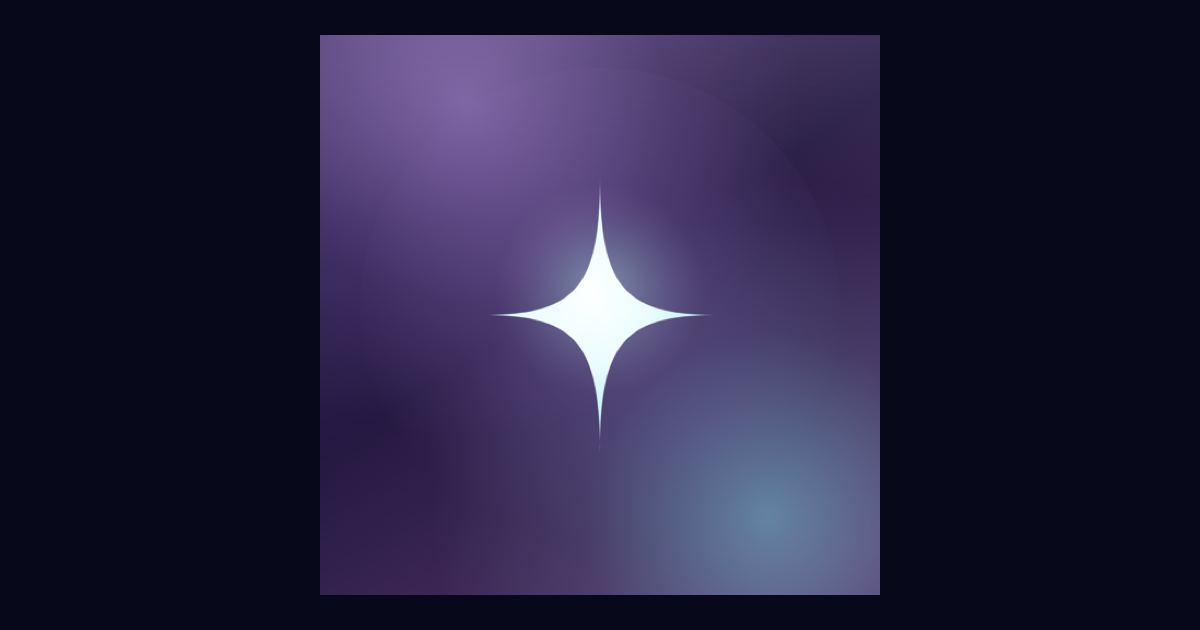
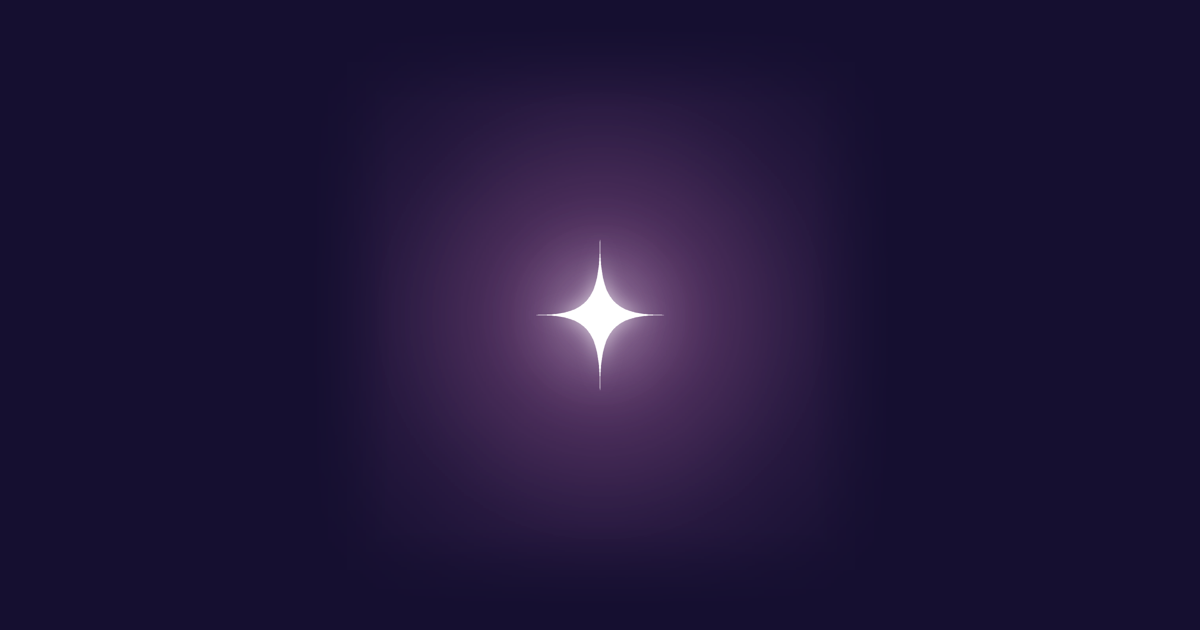
Rediseño con la paleta real del splash (violeta/indigo)

diff --git a/index.html b/index.html
@@ -5,7 +5,7 @@
 <meta name="viewport" content="width=device-width, initial-scale=1, viewport-fit=cover" />
 <title>OwnAI · Descarga para Android</title>
 <meta name="description" content="Instala OwnAI en tu Android. Convierte tus objetivos en acciones diarias con hábitos, rutinas y un coach con IA." />
-<meta name="theme-color" content="#04060F" />
+<meta name="theme-color" content="#150F30" />
 <link rel="icon" href="assets/favicon.png" />
 <link rel="apple-touch-icon" href="assets/icon.png" />
 
@@ -24,22 +24,26 @@
 <link href="https://fonts.googleapis.com/css2?family=Geist:wght@400;500;600;700&display=swap" rel="stylesheet" />
 
 <style>
+  /* Paleta muestreada pixel a pixel de assets/splash.png (la portada real de la app)
+     más los spark* de constants/colors.ts. */
   :root {
-    --bg: #04060F;
-    --ambient-navy: #08152A;
-    --ambient-deep: #060A18;
-    --primary: #7EE8F2;
-    --primary-end: #6EE5DE;
-    --accent-cyan: #B0F2FF;
-    --spark-violet: #C99CFF;
-    --spark-blue: #66EBFF;
+    --bg: #150F30;
+    --bg-deep: #100B26;
+    --glow-1: #7B5A85;
+    --glow-2: #5C3C69;
+    --glow-3: #482C58;
+    --glow-4: #2C1C43;
+
+    --violet: #C99CFF;
+    --pink: #E0AAFF;
+    --ice: #B0F2FF;
+    --cyan: #7EE8F2;
+
     --text: rgba(255, 255, 255, 0.97);
-    --text-2: rgba(255, 255, 255, 0.60);
-    --text-3: rgba(255, 255, 255, 0.45);
-    --glass: rgba(10, 16, 22, 0.42);
-    --glass-high: rgba(5, 9, 13, 0.66);
-    --border: rgba(255, 255, 255, 0.09);
-    --border-strong: rgba(255, 255, 255, 0.16);
+    --text-2: rgba(255, 255, 255, 0.64);
+    --text-3: rgba(255, 255, 255, 0.44);
+    --glass: rgba(38, 26, 76, 0.42);
+    --border: rgba(201, 156, 255, 0.16);
   }
 
   * { box-sizing: border-box; }
@@ -54,43 +58,36 @@
     overflow-x: hidden;
   }
 
-  /* ---- Fondo ambiental (réplica web del ambient glow de la app) ---- */
+  /* ---- Portada: réplica del degradado radial del splash ---- */
   .ambient {
     position: fixed;
     inset: 0;
     z-index: 0;
-    overflow: hidden;
     pointer-events: none;
     background:
-      radial-gradient(120% 90% at 50% -10%, var(--ambient-navy) 0%, transparent 60%),
-      radial-gradient(100% 80% at 50% 110%, var(--ambient-deep) 0%, transparent 65%);
+      radial-gradient(circle 620px at 50% 26%,
+        var(--glow-1) 0%,
+        var(--glow-2) 16%,
+        var(--glow-3) 30%,
+        var(--glow-4) 52%,
+        var(--bg) 76%),
+      var(--bg-deep);
   }
-  .blob {
-    position: absolute;
-    border-radius: 50%;
-    filter: blur(80px);
-    opacity: 0.5;
-    will-change: transform;
+  .halo {
+    position: fixed;
+    top: 26%;
+    left: 50%;
+    width: 78vmax; height: 78vmax;
+    transform: translate(-50%, -50%);
+    z-index: 0;
+    pointer-events: none;
+    background: radial-gradient(circle, rgba(224, 170, 255, 0.20) 0%, rgba(201, 156, 255, 0.07) 38%, transparent 68%);
+    filter: blur(30px);
+    animation: pulse 7s ease-in-out infinite;
   }
-  .blob-cyan {
-    width: 62vmax; height: 62vmax;
-    top: -28vmax; left: -18vmax;
-    background: radial-gradient(circle, rgba(102, 235, 255, 0.30) 0%, transparent 70%);
-    animation: drift-a 26s ease-in-out infinite alternate;
-  }
-  .blob-violet {
-    width: 58vmax; height: 58vmax;
-    bottom: -30vmax; right: -20vmax;
-    background: radial-gradient(circle, rgba(201, 156, 255, 0.26) 0%, transparent 70%);
-    animation: drift-b 32s ease-in-out infinite alternate;
-  }
-  @keyframes drift-a {
-    from { transform: translate3d(0, 0, 0) scale(1); }
-    to   { transform: translate3d(6vmax, 4vmax, 0) scale(1.12); }
-  }
-  @keyframes drift-b {
-    from { transform: translate3d(0, 0, 0) scale(1.08); }
-    to   { transform: translate3d(-5vmax, -4vmax, 0) scale(1); }
+  @keyframes pulse {
+    0%, 100% { opacity: 0.75; transform: translate(-50%, -50%) scale(1); }
+    50%      { opacity: 1;    transform: translate(-50%, -50%) scale(1.07); }
   }
 
   main {
@@ -98,32 +95,32 @@
     z-index: 1;
     max-width: 520px;
     margin: 0 auto;
-    padding: 48px 20px calc(40px + env(safe-area-inset-bottom));
+    padding: 52px 20px calc(40px + env(safe-area-inset-bottom));
     display: flex;
     flex-direction: column;
     align-items: center;
     text-align: center;
   }
 
-  /* ---- Marca ---- */
+  /* ---- Destello de marca ---- */
   .mark {
-    width: 108px; height: 108px;
+    width: 132px; height: 132px;
     display: grid; place-items: center;
-    margin-bottom: 26px;
+    margin-bottom: 22px;
     animation: breathe 5.5s ease-in-out infinite;
   }
   .mark svg { width: 100%; height: 100%; display: block; }
   @keyframes breathe {
-    0%, 100% { transform: scale(1); opacity: 0.92; }
-    50%      { transform: scale(1.05); opacity: 1; }
+    0%, 100% { transform: scale(1); opacity: 0.94; }
+    50%      { transform: scale(1.045); opacity: 1; }
   }
 
   h1 {
-    font-size: 40px;
+    font-size: 42px;
     font-weight: 600;
-    letter-spacing: -0.03em;
+    letter-spacing: -0.035em;
     margin: 0 0 12px;
-    background: linear-gradient(120deg, #FFFFFF 0%, var(--accent-cyan) 55%, var(--primary) 100%);
+    background: linear-gradient(120deg, #FFFFFF 0%, #F3E6FF 45%, var(--violet) 100%);
     -webkit-background-clip: text;
     background-clip: text;
     color: transparent;
@@ -135,7 +132,6 @@
     color: var(--text-2);
     margin: 0 0 34px;
     max-width: 22em;
-    font-weight: 400;
   }
 
   /* ---- Botón de descarga ---- */
@@ -147,23 +143,22 @@
     width: 100%;
     padding: 19px 26px;
     border-radius: 999px;
-    background: linear-gradient(100deg, var(--primary) 0%, var(--primary-end) 100%);
-    color: #04121A;
+    background: linear-gradient(100deg, var(--violet) 0%, var(--pink) 42%, var(--ice) 100%);
+    color: #1B0F33;
     font-size: 17.5px;
     font-weight: 600;
     letter-spacing: -0.01em;
     text-decoration: none;
-    box-shadow: 0 14px 44px rgba(126, 232, 242, 0.30);
+    box-shadow: 0 14px 46px rgba(201, 156, 255, 0.34);
     transition: transform 160ms ease, box-shadow 160ms ease;
   }
-  .cta:active { transform: scale(0.975); box-shadow: 0 8px 26px rgba(126, 232, 242, 0.24); }
+  .cta:active { transform: scale(0.975); box-shadow: 0 8px 26px rgba(201, 156, 255, 0.26); }
   .cta svg { width: 21px; height: 21px; flex-shrink: 0; }
 
   .meta {
     margin-top: 14px;
     font-size: 13.5px;
     color: var(--text-3);
-    letter-spacing: 0.01em;
   }
 
   /* ---- Pasos ---- */
@@ -192,7 +187,7 @@
     align-items: flex-start;
     padding: 11px 0;
   }
-  .step + .step { border-top: 1px solid rgba(255, 255, 255, 0.055); }
+  .step + .step { border-top: 1px solid rgba(201, 156, 255, 0.10); }
   .num {
     flex-shrink: 0;
     width: 27px; height: 27px;
@@ -200,9 +195,9 @@
     display: grid; place-items: center;
     font-size: 13px;
     font-weight: 600;
-    color: var(--primary);
-    background: rgba(126, 232, 242, 0.13);
-    border: 1px solid rgba(126, 232, 242, 0.24);
+    color: var(--violet);
+    background: rgba(201, 156, 255, 0.14);
+    border: 1px solid rgba(201, 156, 255, 0.28);
     margin-top: 1px;
   }
   .step p {
@@ -238,43 +233,40 @@
   footer {
     margin-top: 36px;
     font-size: 12px;
-    color: rgba(255, 255, 255, 0.28);
-    letter-spacing: 0.02em;
+    color: rgba(255, 255, 255, 0.26);
   }
 
   @media (max-width: 380px) {
-    h1 { font-size: 34px; }
+    h1 { font-size: 35px; }
     .cta { font-size: 16px; padding: 17px 20px; }
   }
 
   @media (prefers-reduced-motion: reduce) {
-    .blob, .mark { animation: none; }
+    .halo, .mark { animation: none; }
   }
 </style>
 </head>
 <body>
 
-<div class="ambient" aria-hidden="true">
-  <div class="blob blob-cyan"></div>
-  <div class="blob blob-violet"></div>
-</div>
+<div class="ambient" aria-hidden="true"></div>
+<div class="halo" aria-hidden="true"></div>
 
 <main>
   <div class="mark" aria-hidden="true">
     <svg viewBox="0 0 100 100" fill="none" xmlns="http://www.w3.org/2000/svg">
       <defs>
         <radialGradient id="glow" cx="50%" cy="50%" r="50%">
-          <stop offset="0%" stop-color="#FFFFFF" stop-opacity="0.95" />
-          <stop offset="45%" stop-color="#B0F2FF" stop-opacity="0.42" />
-          <stop offset="100%" stop-color="#7EE8F2" stop-opacity="0" />
+          <stop offset="0%" stop-color="#FFFFFF" stop-opacity="0.92" />
+          <stop offset="38%" stop-color="#E0AAFF" stop-opacity="0.40" />
+          <stop offset="100%" stop-color="#C99CFF" stop-opacity="0" />
         </radialGradient>
         <linearGradient id="spark" x1="50" y1="4" x2="50" y2="96" gradientUnits="userSpaceOnUse">
           <stop offset="0%" stop-color="#FFFFFF" />
-          <stop offset="50%" stop-color="#EAFCFF" />
-          <stop offset="100%" stop-color="#B0F2FF" />
+          <stop offset="55%" stop-color="#FBF7FF" />
+          <stop offset="100%" stop-color="#F0DFFF" />
         </linearGradient>
       </defs>
-      <circle cx="50" cy="50" r="46" fill="url(#glow)" />
+      <circle cx="50" cy="50" r="48" fill="url(#glow)" />
       <path d="M50 3 C52.5 30.5 61.5 44 97 50 C61.5 56 52.5 69.5 50 97 C47.5 69.5 38.5 56 3 50 C38.5 44 47.5 30.5 50 3 Z" fill="url(#spark)" />
     </svg>
   </div>